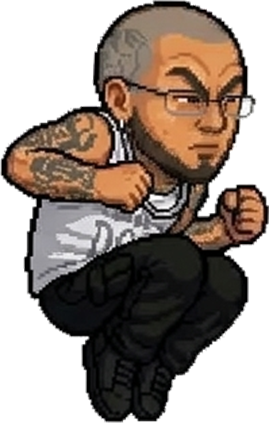
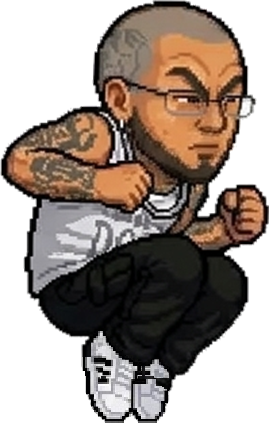
Nuevo personaje Omega el CTM con La Baltiloca y El Sur es Hardcore; zapatillas blancas para Claudio

Changed region(s): [[0.2974, 0.7593, 0.6245, 1.0]]

diff --git a/src/game.js b/src/game.js
@@ -897,6 +897,31 @@ function drawKettlebell(x, y, rot) {
   ctx.fillStyle = '#ffd23f'; ctx.font = '700 11px "Bungee", system-ui, sans-serif'; ctx.textAlign = 'center'; ctx.textBaseline = 'middle'; ctx.fillText('24', 0, 10);
   ctx.restore();
 }
+// botella de litro de Omega (etiqueta de su tema LA BALTILOCA, sin marca de cerveza)
+function drawBottle(x, y, rot, k = 1) {
+  ctx.save(); ctx.translate(x, y); ctx.rotate(rot); ctx.scale(k, k); ctx.lineWidth = 4; ctx.strokeStyle = '#120806';
+  ctx.fillStyle = '#4a230c'; ctx.beginPath(); ctx.roundRect(-15, -22, 30, 62, 7); ctx.fill(); ctx.stroke(); // cuerpo
+  ctx.beginPath(); ctx.moveTo(-15, -18); ctx.quadraticCurveTo(-8, -34, -6, -48); ctx.lineTo(6, -48); ctx.quadraticCurveTo(8, -34, 15, -18); ctx.fill(); ctx.stroke(); // cuello
+  ctx.fillStyle = '#d42a1e'; ctx.fillRect(-8, -56, 16, 9); ctx.strokeRect(-8, -56, 16, 9); // tapa
+  ctx.fillStyle = '#d42a1e'; ctx.fillRect(-15, -4, 30, 26); ctx.fillStyle = '#ffd23f'; ctx.fillRect(-15, 4, 30, 9); // etiqueta
+  ctx.strokeRect(-15, -4, 30, 26);
+  ctx.fillStyle = '#d42a1e'; ctx.font = '700 6px "Bungee", system-ui, sans-serif'; ctx.textAlign = 'center'; ctx.textBaseline = 'middle'; ctx.fillText('BALTILOCA', 0, 9);
+  ctx.fillStyle = 'rgba(255,220,170,0.35)'; ctx.fillRect(-11, -18, 4, 52); // brillo del vidrio
+  ctx.restore();
+}
+// roca que sale del piso en el terremoto (h = alto visible, seed = forma)
+function drawRock(x, h, w, seed) {
+  if (h < 2) return;
+  const pts = 7, r = n => { const v = Math.sin(seed * 12.9 + n * 78.2) * 43758.5; return v - Math.floor(v); };
+  ctx.save(); ctx.translate(x, GROUND + 4); ctx.lineWidth = 5; ctx.strokeStyle = '#1a120c'; ctx.lineJoin = 'round';
+  ctx.beginPath(); ctx.moveTo(-w / 2, 0);
+  for (let i = 1; i < pts; i++) { const px = -w / 2 + (w * i) / pts, top = i === Math.floor(pts / 2) ? 1 : 0.45 + r(i) * 0.4; ctx.lineTo(px + (r(i + 9) - 0.5) * 10, -h * top); }
+  ctx.lineTo(w / 2, 0); ctx.closePath();
+  const gr = ctx.createLinearGradient(-w / 2, 0, w / 2, 0); gr.addColorStop(0, '#5a4636'); gr.addColorStop(0.45, '#8d7358'); gr.addColorStop(1, '#3f3026');
+  ctx.fillStyle = gr; ctx.fill(); ctx.stroke();
+  ctx.strokeStyle = 'rgba(20,12,8,0.6)'; ctx.lineWidth = 3; ctx.beginPath(); ctx.moveTo(-w * 0.1, -h * 0.15); ctx.lineTo(w * 0.05, -h * 0.5); ctx.lineTo(-w * 0.08, -h * 0.7); ctx.stroke(); // grieta
+  ctx.restore();
+}
 function startPower(f, kind) {
   const fx = { kind, f, o: f.opp, t: 0, dir: f.facing, items: [], done: false };
   game.powers.push(fx);
@@ -1047,6 +1072,93 @@ const POWERS = {
     },
   },
   // Mastamaick · ONE HIT WONDER: lanza 4 pesas rusas alternando las manos, todas directo al rival
+  // Omega · LA BALTILOCA: agita una botella de litro sobre la cabeza y se la lanza; revienta en espuma y deja mareado al rival
+  baltiloca: {
+    start(fx) { hold(fx.f, 'winRound'); fx.dir = Math.sign(fx.o.x - fx.f.x) || fx.dir; fx.f.facing = fx.dir; fx.foam = []; },
+    update(fx) {
+      const f = fx.f, o = fx.o, t = fx.t, G = 0.55;
+      if (t < 30 && t % 6 === 0) psfx('pw_shake', 'menu_move', 0.5);
+      if (t < 30) fx.hand = { x: f.x + fx.dir * spriteH(f.ch) * 0.2, y: bodyY(f, 0.98) };
+      if (t === 30) {
+        f.fxPose = 'punchH'; Audio.whoosh();
+        const x = f.x + fx.dir * 80, y = bodyY(f, 0.75), tx = o.x, ty = bodyY(o, 0.6), T = Math.max(16, Math.abs(tx - x) / 16);
+        fx.b = { x, y, vx: (tx - x) / T, vy: (ty - y - 0.5 * G * T * T) / T, rot: 0 };
+      }
+      if (t === 46) release(f);
+      const b = fx.b;
+      if (b && !b.gone) {
+        b.vy += G; b.x += b.vx; b.y += b.vy; b.rot += 0.3 * fx.dir;
+        const burst = () => { b.gone = true; for (let i = 0; i < 34; i++) fx.foam.push({ x: b.x, y: b.y, vx: rnd(-7, 7), vy: rnd(-11, 2), r: rnd(6, 16), life: rnd(30, 55), beer: i % 3 === 0 }); game.shake(14); psfx('pw_splash', 'punchH'); };
+        if (overlap({ x: b.x - 22, y: b.y - 40, w: 44, h: 80 }, o.hurtbox())) {
+          burst();
+          if (strike(fx, { dmg: 10, stun: 30, kb: 4, hitstop: 10, at: { x: b.x, y: b.y } })) { hold(o, 'dizzy'); fx.dizzy = 55; }
+        } else if (b.y > GROUND - 24) burst();
+        if (b.x < -80 || b.x > W + 80) b.gone = true;
+      }
+      if (fx.dizzy > 0 && --fx.dizzy === 0 && o.state === 'held') release(o);
+      for (const p of fx.foam) { p.vy += 0.35; p.x += p.vx; p.y = Math.min(GROUND - 4, p.y + p.vy); p.vx *= 0.96; p.life--; }
+      fx.foam = fx.foam.filter(p => p.life > 0);
+      return t > 46 && (!b || b.gone) && !fx.foam.length && !(fx.dizzy > 0);
+    },
+    front(fx) {
+      const t = fx.t;
+      if (t < 30 && fx.hand) { // agitándola: se sacude y le sale espuma por el cuello
+        drawBottle(fx.hand.x, fx.hand.y, Math.sin(t * 1.3) * 0.5 * fx.dir, 1.1);
+        ctx.save(); ctx.fillStyle = '#fff8e8'; ctx.strokeStyle = '#2a1a10'; ctx.lineWidth = 2;
+        for (let i = 0; i < Math.min(6, t / 4); i++) { const a = t * 0.4 + i; ctx.beginPath(); ctx.arc(fx.hand.x + Math.sin(a) * 10, fx.hand.y - 60 - i * 7, 5 + (i % 3), 0, 7); ctx.fill(); ctx.stroke(); }
+        ctx.restore();
+      }
+      if (fx.b && !fx.b.gone) drawBottle(fx.b.x, fx.b.y, fx.b.rot, 1.1);
+      ctx.save(); ctx.lineWidth = 2; ctx.strokeStyle = 'rgba(60,35,15,0.7)';
+      for (const p of fx.foam) { ctx.globalAlpha = Math.min(1, p.life / 20); ctx.fillStyle = p.beer ? '#d99a2b' : '#fffaf0'; ctx.beginPath(); ctx.arc(p.x, p.y, p.r, 0, 7); ctx.fill(); ctx.stroke(); }
+      ctx.restore();
+    },
+  },
+  // Omega · EL SUR ES HARDCORE: salta, golpea el piso con los dos puños y el terremoto levanta rocas que corren por el suelo
+  // hasta el rival y lo lanzan al aire. Se esquiva saltando justo cuando pasan las rocas.
+  quake: {
+    start(fx) { hold(fx.f, 'jumpUp'); fx.dir = Math.sign(fx.o.x - fx.f.x) || fx.dir; fx.f.facing = fx.dir; fx.rocks = []; fx.dust = []; },
+    update(fx) {
+      const f = fx.f, o = fx.o, t = fx.t;
+      if (t <= 20) f.y = Math.sin(t / 20 * Math.PI) * 150;
+      if (t === 20) { f.y = 0; f.fxPose = 'crouch'; game.shake(32); psfx('pw_boom', 'super_rush'); Audio.sfx('fall', 0.9); fx.slam = t; }
+      if (t > 20 && t <= 20 + 18 * 3 && (t - 20) % 3 === 0) {
+        const n = (t - 20) / 3, x = f.x + fx.dir * (70 + n * 46);
+        if (x > -60 && x < W + 60) {
+          fx.rocks.push({ x, t: 0, h: 70 + (n % 3) * 26 + n * 3, w: 54 + (n % 2) * 16, seed: n + 1 });
+          for (let i = 0; i < 4; i++) fx.dust.push({ x: x + rnd(-20, 20), y: GROUND - 6, vx: rnd(-2, 2), vy: rnd(-7, -3), r: rnd(8, 16), life: 32 });
+          if (n % 2 === 0) game.shake(10);
+        }
+      }
+      for (const r of fx.rocks) {
+        r.t++;
+        if (!fx.hit && r.t < 14 && Math.abs(r.x - o.x) < 50 && o.y < 40) {
+          fx.hit = true;
+          if (strike(fx, { dmg: 26, stun: 44, kb: 4, knockdown: true, hitstop: 16, at: { x: o.x, y: GROUND - 60 } })) { o.vy = 17; o.vx = fx.dir * 5; game.shake(26); }
+        }
+      }
+      for (const d of fx.dust) { d.x += d.vx; d.y += d.vy; d.vy += 0.15; d.r += 0.5; d.life--; }
+      fx.dust = fx.dust.filter(d => d.life > 0);
+      if (t === 76) release(f);
+      return t > 120;
+    },
+    back(fx) {
+      if (!fx.slam) return;
+      const t = fx.t - fx.slam;
+      ctx.save(); ctx.strokeStyle = '#1a120c'; ctx.lineWidth = 4; // grieta en el piso desde los puños
+      ctx.beginPath(); let x = fx.f.x; ctx.moveTo(x, GROUND + 2);
+      for (let i = 0; i < Math.min(18, t / 3); i++) { x += fx.dir * 46; ctx.lineTo(x - fx.dir * 20, GROUND + 2 + (i % 2 ? 6 : -2)); ctx.lineTo(x, GROUND + 2); }
+      ctx.stroke(); ctx.restore();
+    },
+    front(fx) {
+      // cada roca sube rápido, se queda un momento y se hunde
+      for (const r of fx.rocks) { const k = r.t < 6 ? r.t / 6 : r.t < 24 ? 1 : Math.max(0, 1 - (r.t - 24) / 16); drawRock(r.x, r.h * k, r.w, r.seed); }
+      ctx.save();
+      for (const d of fx.dust) { ctx.globalAlpha = d.life / 32 * 0.7; ctx.fillStyle = '#a08a70'; ctx.beginPath(); ctx.arc(d.x, d.y, d.r, 0, 7); ctx.fill(); }
+      ctx.restore();
+      if (fx.slam && fx.t - fx.slam < 6) { ctx.fillStyle = 'rgba(255,240,210,' + (0.6 * (1 - (fx.t - fx.slam) / 6)) + ')'; ctx.fillRect(0, 0, W, H); }
+    },
+  },
   kettlebells: {
     start(fx) { hold(fx.f, 'throw1'); fx.dir = Math.sign(fx.o.x - fx.f.x) || fx.dir; fx.f.facing = fx.dir; },
     update(fx) {

diff --git a/src/roster.js b/src/roster.js
@@ -142,8 +142,8 @@ window.ROSTER = [
   },
   {
     id: 'claudio', name: 'CLAUDIO BASTARDO', tagline: 'Somos veneno',
-    sprite: poses('assets/fighters/claudio/', ['idle', 'punch', 'punchH', 'kick', 'kickH', 'jumpUp', 'jumpFwd', 'block', 'hit', 'dizzy', 'fall', 'taunt', 'winRound', 'winMatch', 'punch2', 'kick2', 'vomit', 'scream', 'finisher', 'airpunch', 'airkick', ...MOVE_POSES]),
-    skin: '#d9a273', hairColor: '#6b6b6b', shirt: '#eeeeee', pants: '#141418', shoes: '#111', accent: '#ffb300',
+    sprite: poses('assets/fighters/claudio/', ['idle', 'punch', 'punchH', 'kick', 'kickH', 'jumpUp', 'jumpFwd', 'block', 'hit', 'dizzy', 'taunt', 'winRound', 'winMatch', 'punch2', 'kick2', 'vomit', 'scream', 'finisher', 'airpunch', 'airkick']), // TODO: fall y MOVE_POSES vuelven cuando tengan las zapatillas blancas
+    skin: '#d9a273', hairColor: '#6b6b6b', shirt: '#eeeeee', pants: '#141418', shoes: '#f2f2f2', accent: '#ffb300',
     hair: 'buzz', extras: ['glasses', 'chain'],
     stats: { speed: 0.95, power: 1.1, hp: 1.05 },
     special: { name: 'GARGAJO', type: 'fire', color: '#7cbf3a', speed: 10 },
@@ -176,6 +176,19 @@ window.ROSTER = [
     special: { name: 'PROTEÍNA', type: 'fire', color: '#ff8a1f', speed: 11 },
     ex:      { name: 'EL COMPLETO', kind: 'completo' },
     super:   { name: 'ONE HIT WONDER', kind: 'kettlebells', type: 'rush', color: '#ff8a1f' }, // se pronuncia "guan jit guonder"
+    quotes: [],
+  },
+  // poderes: GROTESCO (su último disco) lanza un vinilo · LA BALTILOCA (su tema) revienta una botella en espuma ·
+  // EL SUR ES HARDCORE golpea el piso y levanta un terremoto de rocas
+  {
+    id: 'omega', name: 'OMEGA EL CTM', tagline: '',
+    sprite: poses('assets/fighters/omega/', ['idle', 'punch', 'punchH', 'kick', 'kickH', 'jumpUp', 'jumpFwd', 'block', 'hit', 'dizzy', 'fall', 'taunt', 'winRound', 'winMatch', 'finisher', 'punch2', 'kick2', 'airpunch', 'airkick', ...MOVE_POSES]),
+    skin: '#d9a27a', hairColor: '#5a3a24', shirt: '#141418', pants: '#141418', shoes: '#141418', accent: '#d8dde6',
+    hair: 'cap', extras: ['chain'],
+    stats: { speed: 0.95, power: 1.1, hp: 1.05 }, // robusto: pega fuerte y aguanta, un poco más lento
+    special: { name: 'GROTESCO', type: 'vinyl', color: '#ffd23f', speed: 11 },
+    ex:      { name: 'LA BALTILOCA', kind: 'baltiloca', color: '#d42a1e' },
+    super:   { name: 'EL SUR ES HARDCORE', kind: 'quake', type: 'rush', color: '#c9a36b' },
     quotes: [],
   },
   // RETADOR SECRETO: aparece de incógnito en la torre después de vencer al Bruto; si le ganas, queda elegible.
